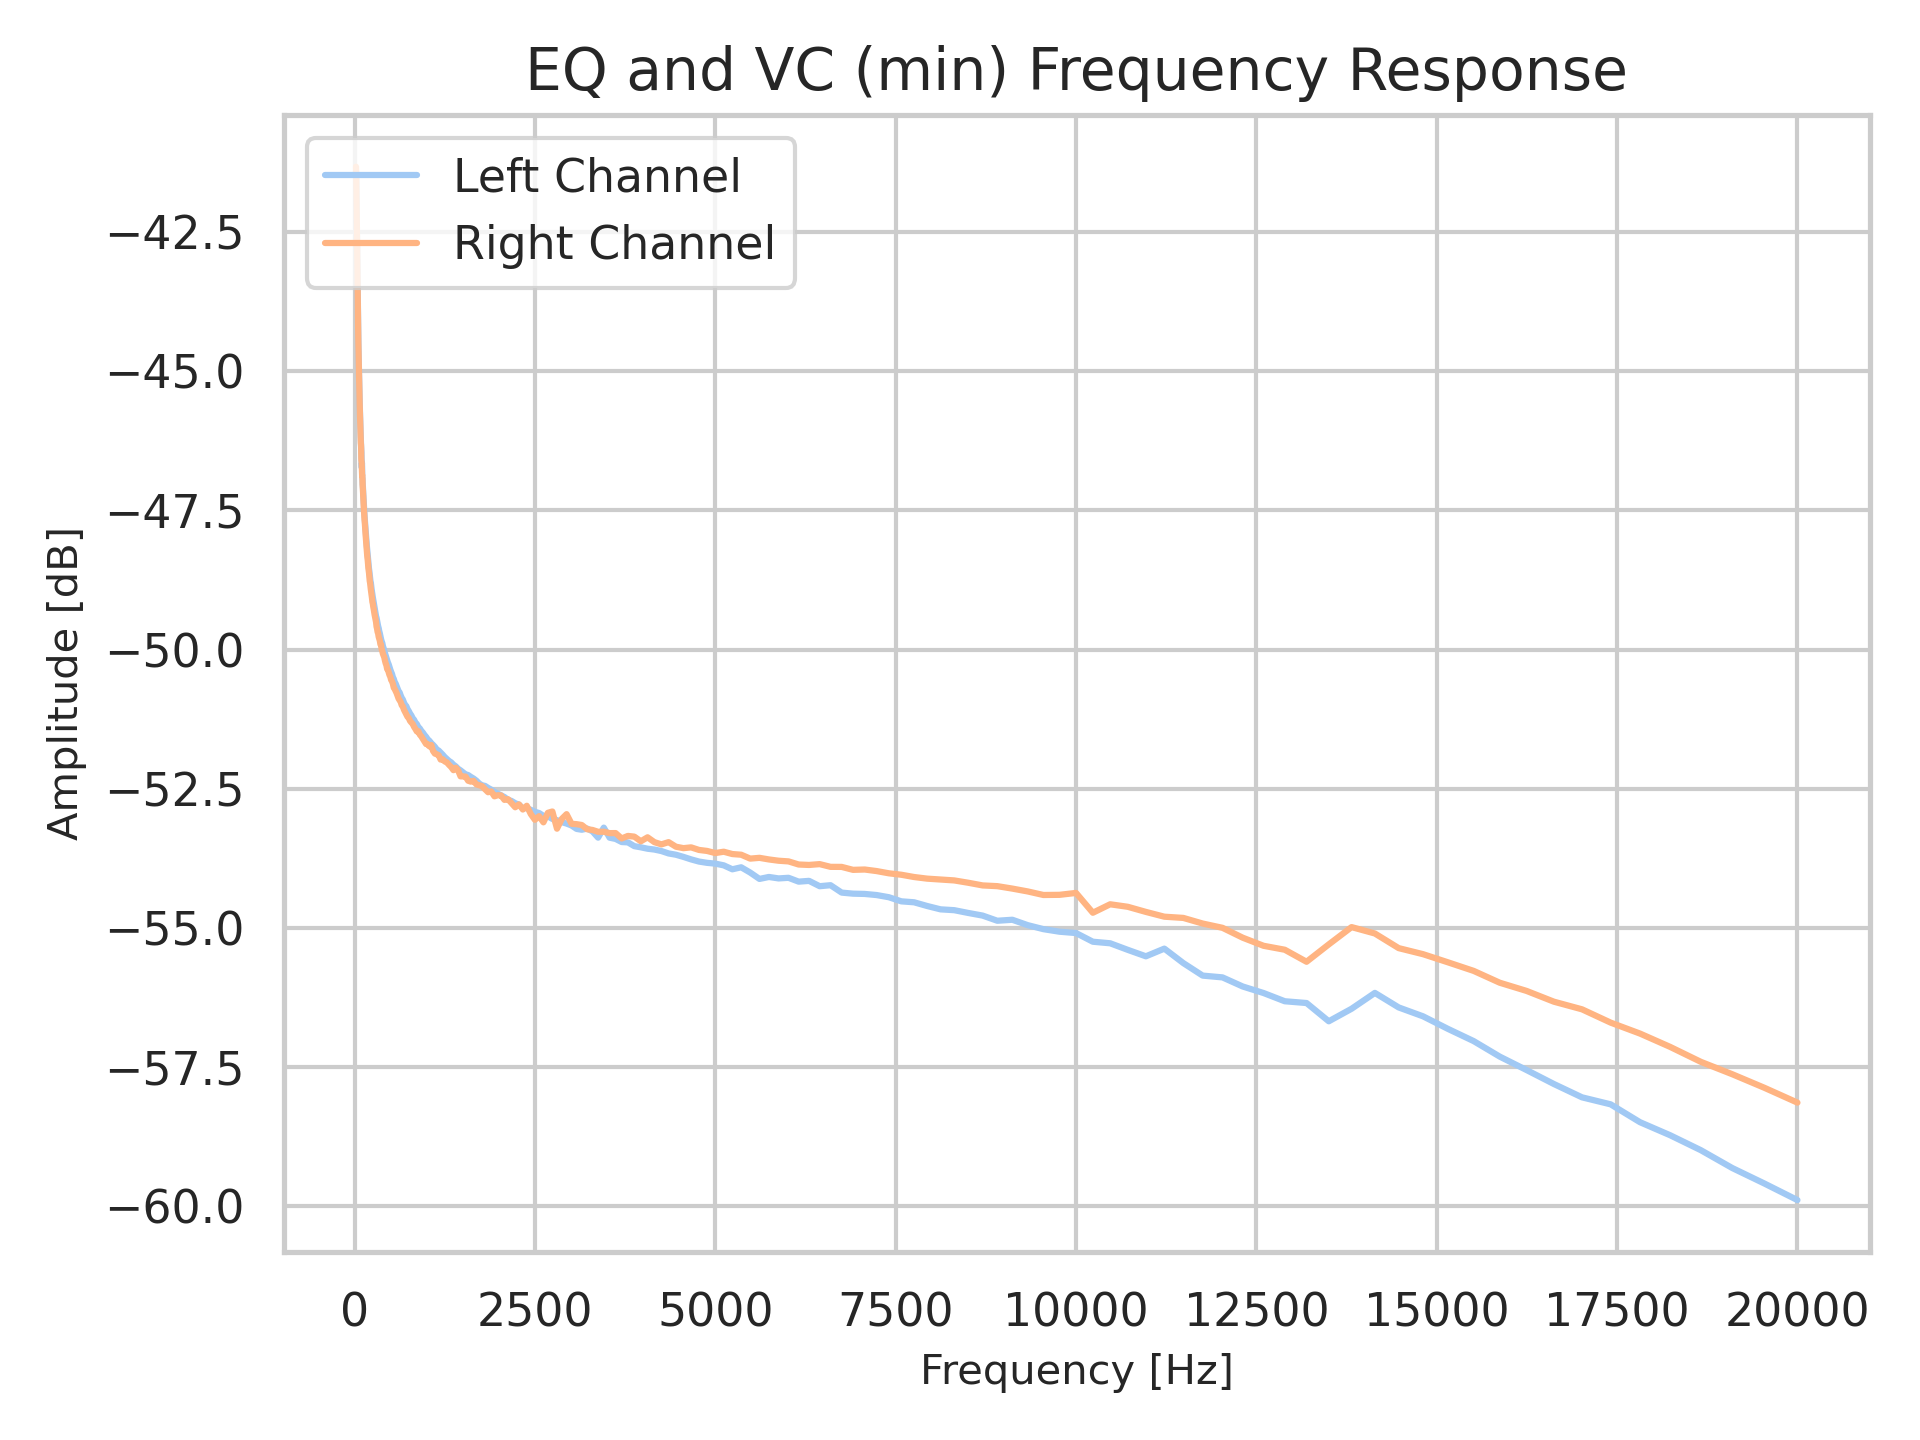
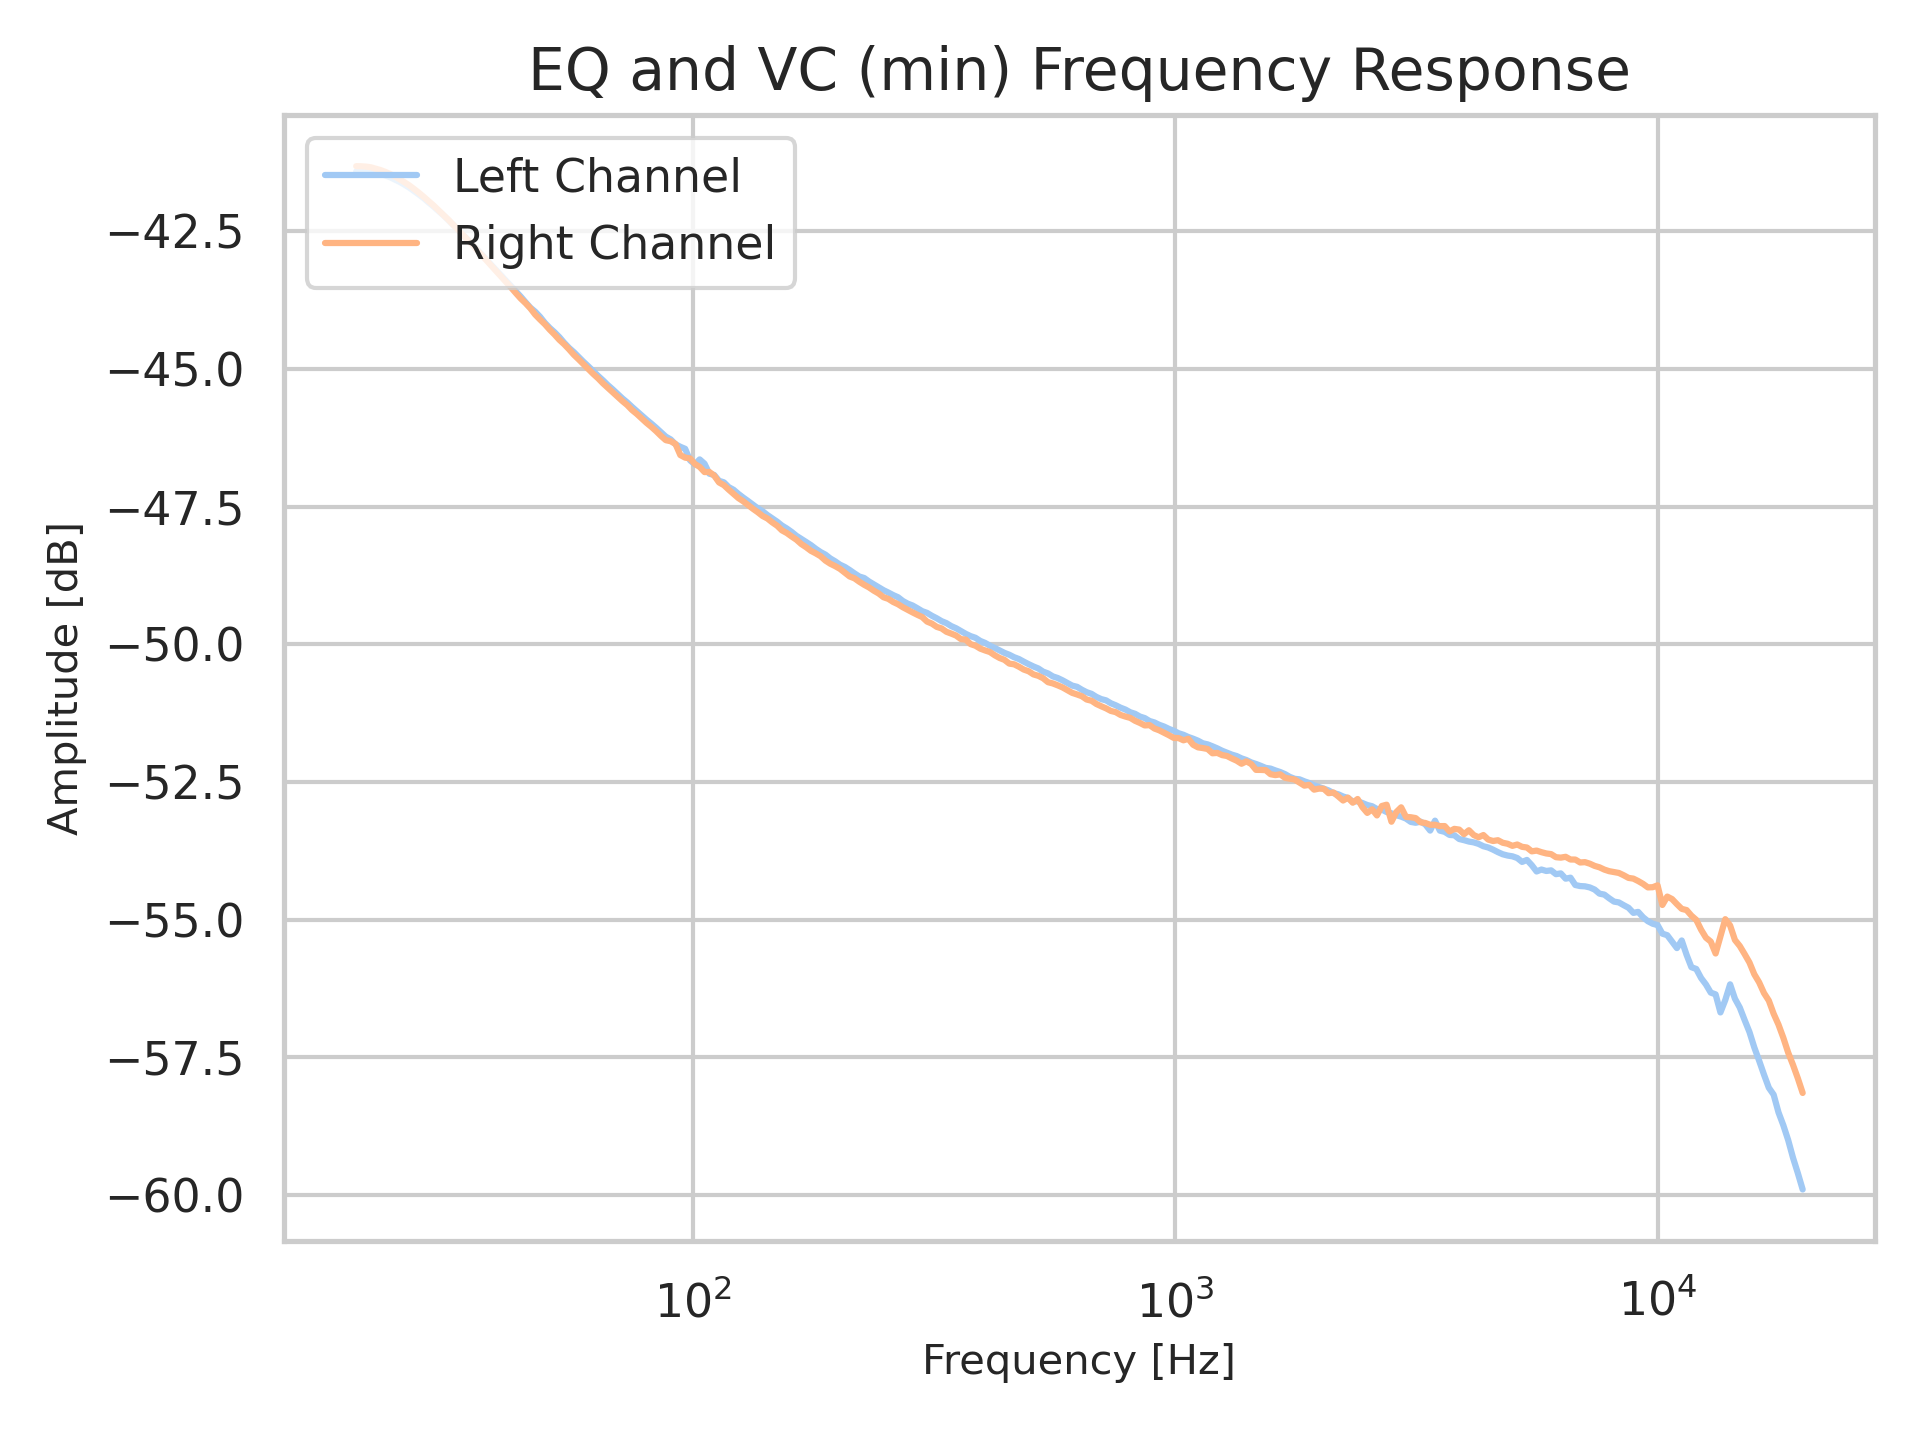
do log plot for frequency response

diff --git a/integration_test/audio_analyser_plot.py b/integration_test/audio_analyser_plot.py
@@ -9,6 +9,7 @@ parser.add_argument("--title", help="Plot title", default="Plot Title")
 parser.add_argument("--type", help="Plot type", choices=["thd", "freqresp"])
 parser.add_argument("--outfile", help="Generated figure output filename (.png)", default=None)
 parser.add_argument("--quiet", help="Do not display generated figure", default=False, action="store_true")
+parser.add_argument("--logx", help="Make x-axis logarithmic", default=False, action="store_true")
 parser.add_argument("--autodetect", help="Automatically detect filenames", default=False, action="store_true")
 args = parser.parse_args()
 
@@ -67,6 +68,8 @@ fig, ax = plt.subplots()
 plt.title(title)
 plt.xlabel(xlabel)
 plt.ylabel(ylabel)
+if args.logx:
+    ax.set_xscale("log")
 ax.plot(df_L[x_tsv_column].to_numpy(), df_L[y_tsv_column].to_numpy(), label="Left Channel")
 ax.plot(df_R[x_tsv_column].to_numpy(), df_R[y_tsv_column].to_numpy(), label="Right Channel")
 
